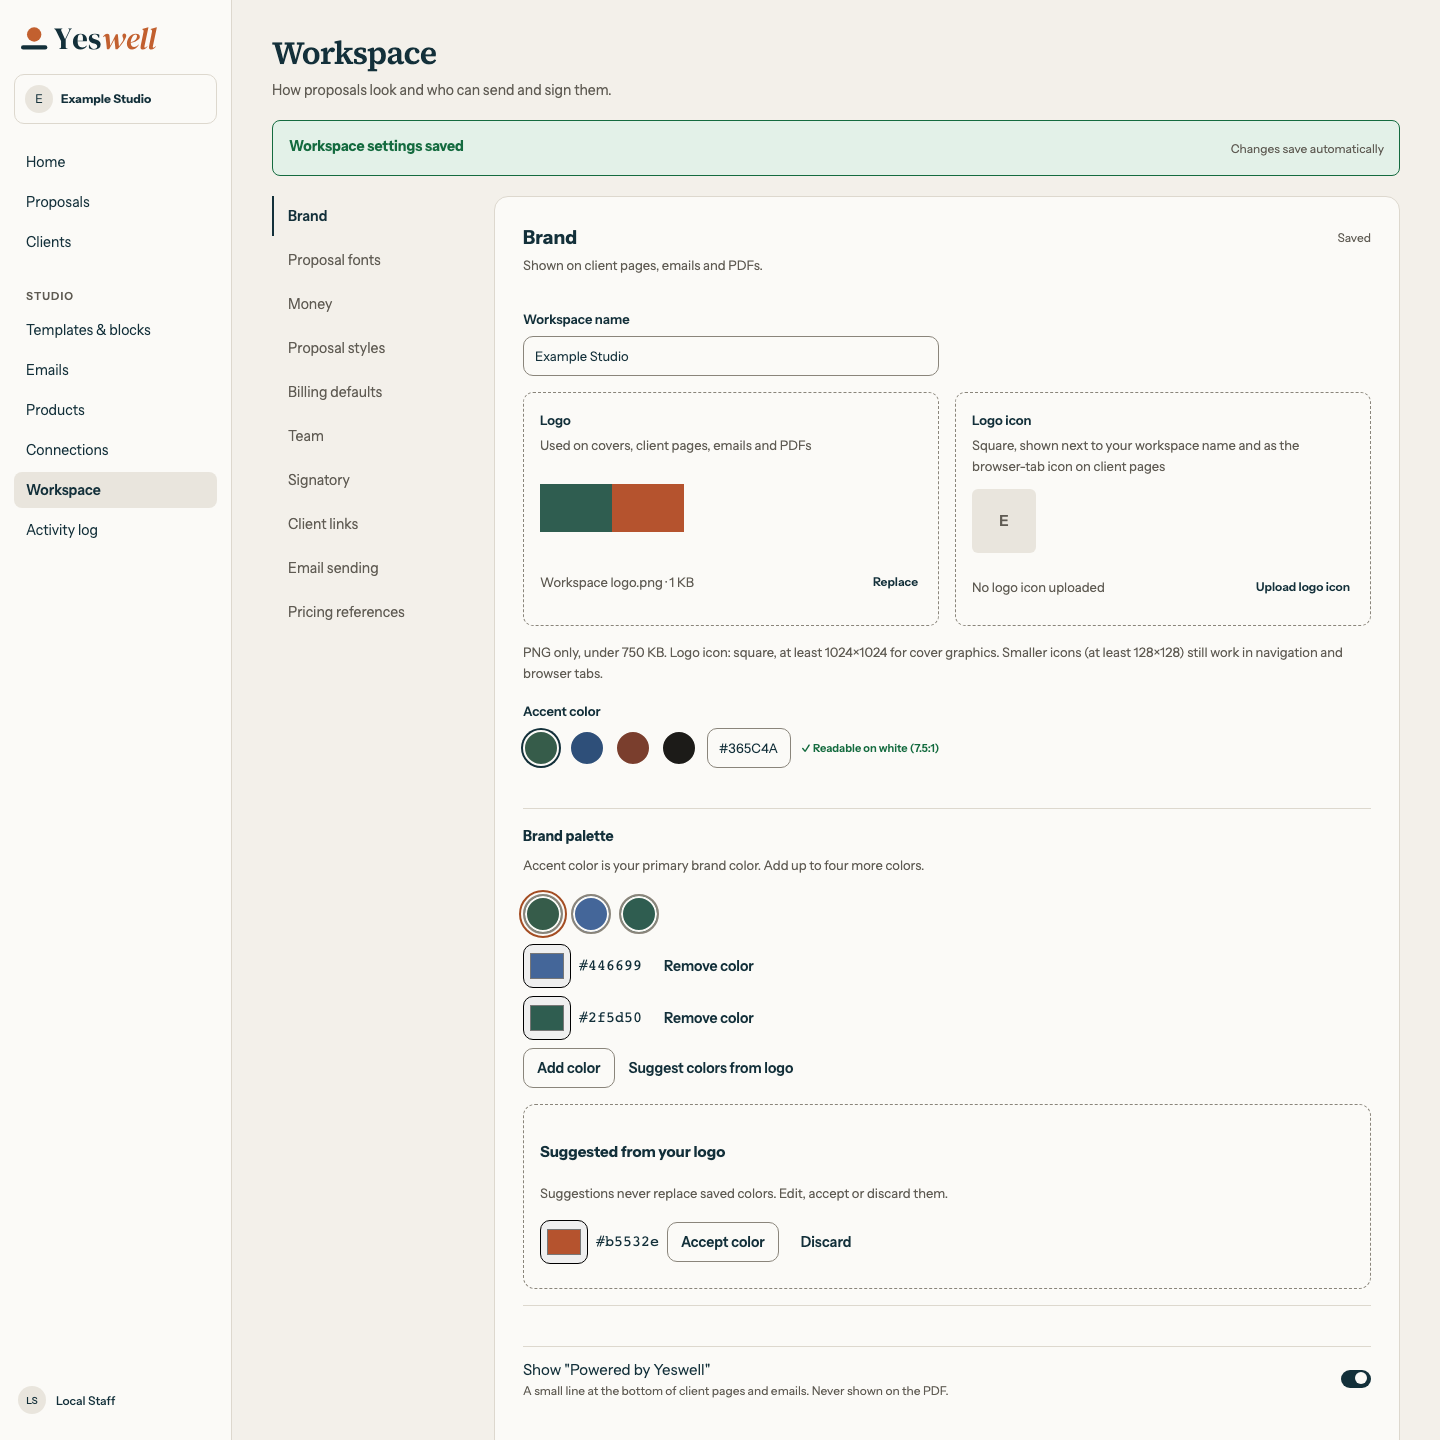
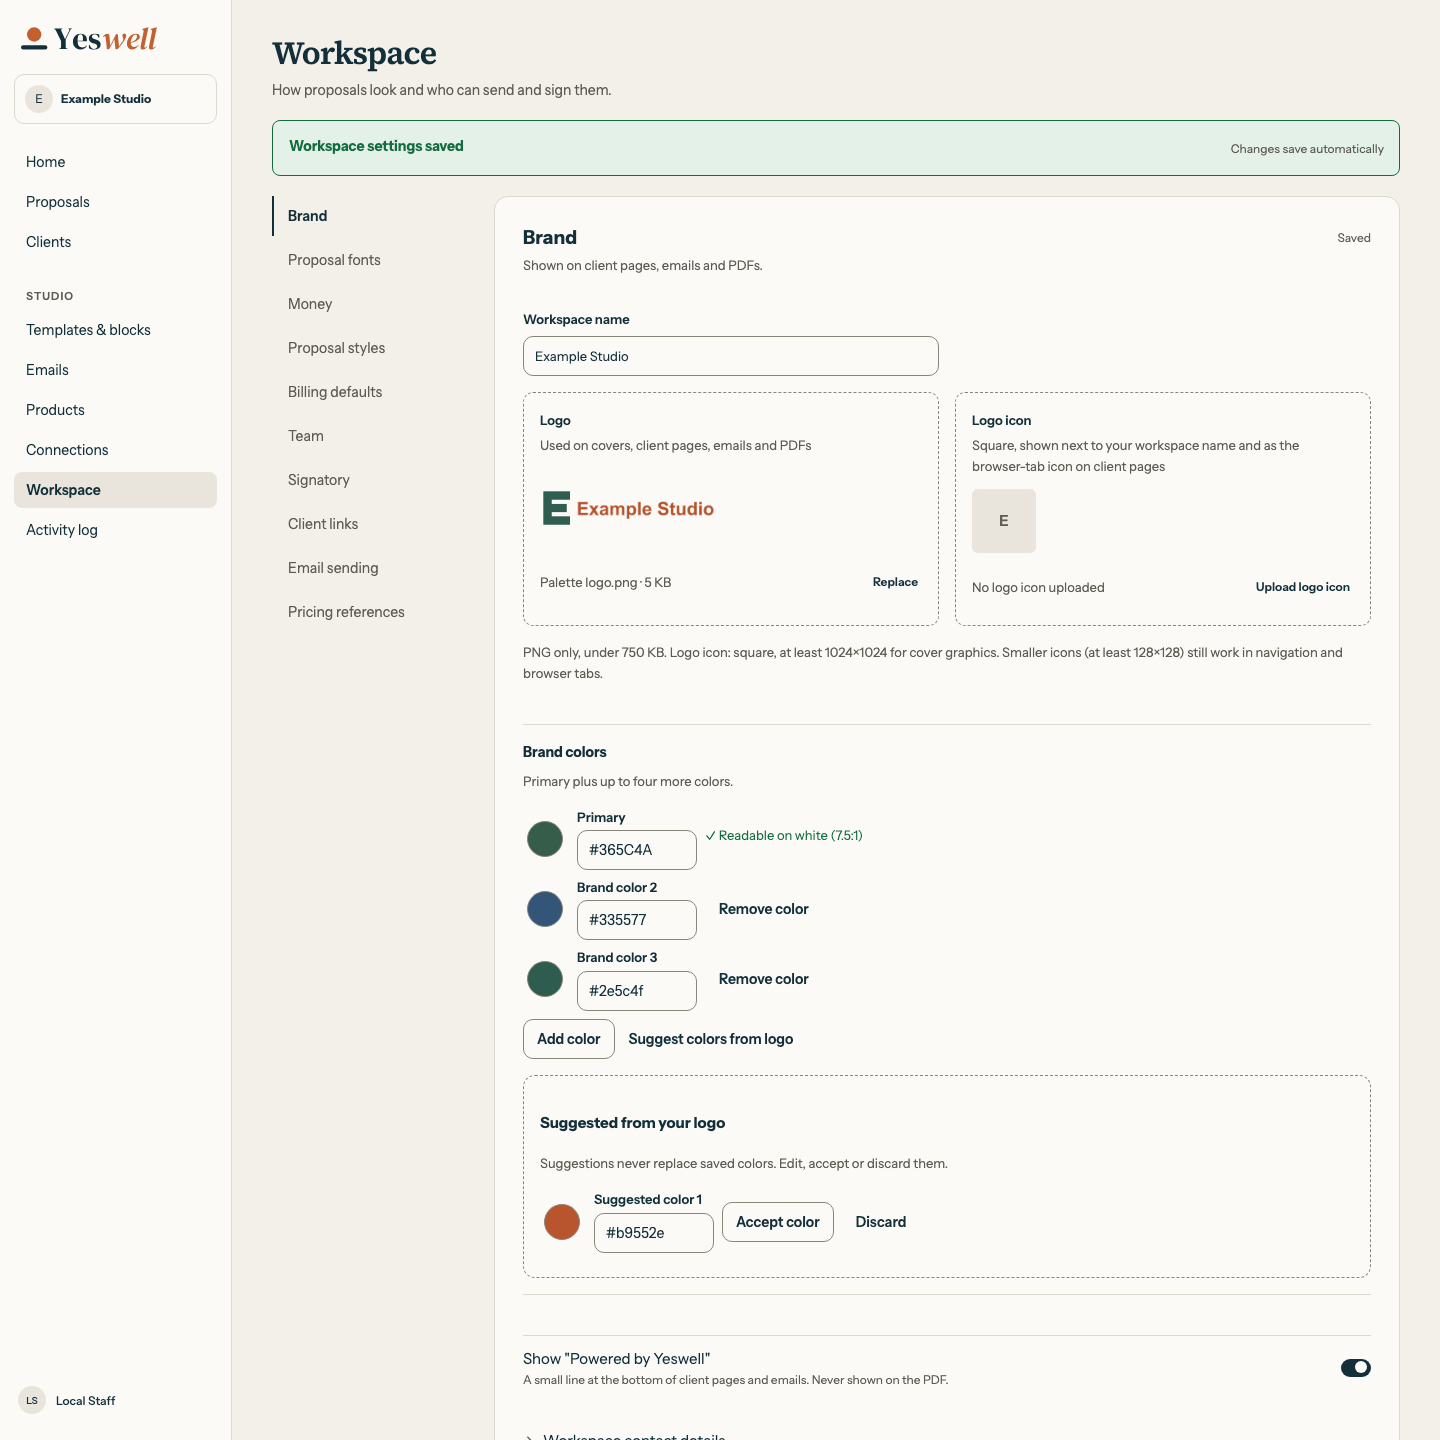
Show default transparent watermark and clarify deploy-before-SQL rollout

diff --git a/HANDOFF_PHASE2.md b/HANDOFF_PHASE2.md
@@ -1214,3 +1214,5 @@ PR #85 CI follow-up restores the legacy cover when an existing template has no s
 Covers PR B builds on that fix. New layout/background/graphic JSON uses one shared rendering source for editor, public sheets and PDF; no legacy cover or existing proposal is migrated. Cover controls are in Styles. Workspace Brand palette suggestions require explicit acceptance. The owner-run future-workspace SQL and guarded unchanged-starter opt-in are documented in `docs/covers-rollout.md`; neither has been run against hosted data. New-layout meta labels/date-only validity follow the owner's answer; old custom cover sentences remain unchanged.
 
 PR B validation: 499 unit/PDF tests and the full browser suite (266 passed, 4 skipped). A final cover/legacy compatibility run passed 25 tests with 1 skipped after refining only new-layout spacing limits and Split graphic cropping. Types, formatting, neutrality and production/PDF packaging checks pass. New-layout spacing accounts for unused flex space; old custom-cover limits retain their existing path. The requested five implementation/artboard pairs, settings, palette and actual PDF cover are in `docs/screenshots/cover-layouts/`.
+
+PR #86 review adds exact crop/default checks, transparent-icon editor/PDF checks, context-sensitive background color, and one shared swatch/hex control for Primary/additional/suggested brand colors. Logo upload previews use the already validated uploaded image while autosave settles, avoiding a missing thumbnail when the logo route still reads the previous settings. The Cover settings and Brand screenshots were recaptured with a real transparent mark/logo. Rollout order is explicitly deploy → hosted SQL → optional protected starter update.

diff --git a/DECISIONS.md b/DECISIONS.md
@@ -654,3 +654,5 @@ Workspace Brand adds an optional palette (primary accent plus four colors). Logo
 Uploaded full-page photos/designs keep a stable contrast backing behind visible text; the Photo layout uses its brand-color band until finished-design mode is selected. The contrast helper describes that resolved surface, including white text over image backings, rather than reporting the palette color alone. These rules are shared by staff, client and PDF renderers.
 
 New-layout spacing controls treat the main group's flexible blank space as available for cover-line spacing; they do not count a full-height flex group as text. Existing custom covers keep their original spacing-limit path. Split's graphic bleeds off the panel's right/bottom edge, clipped to the panel; the no-image brand-name fallback has no icon-gap indentation.
+
+PR #86 owner review: watermarks keep their transparent source shape, clipped only by the page/panel. Editorial defaults to 480px, top/right −150px and 8% on white; Split defaults to 420px, bleeding right/bottom at 12%. Filled-color backgrounds also default to 12%; explicit opacity/size edits remain intact. Review screenshots use a transparent E mark and default values, rather than the previous solid-square stress fixture at 25%/600px. Background color is shown only for color-bearing backgrounds/layouts (Panel color in Split). Workspace Brand has one Brand colors group: Primary (the existing accent with its contrast check), then up to four extra colors, all using a swatch and editable UI-font hex input. Suggestions stay pending until accepted. Run PR B's future-workspace seed SQL **after deploying the matching app**, then optionally run the guarded starter update.

diff --git a/docs/covers-rollout.md b/docs/covers-rollout.md
@@ -21,7 +21,7 @@ Codex has not run hosted SQL or either script against hosted data.
 
 ## PR B — owner action
 
-After PR A's SQL, run [`20261106203920_cover_layout_defaults.sql`](../supabase/migrations/20261106203920_cover_layout_defaults.sql). **Hosted SQL is required for the future-workspace seed payload only.** Cover and palette settings are optional JSON, with no new columns or storage policy. The SQL does not rewrite existing rows.
+**Deploy PR B first**, then, after PR A's SQL has been applied, run [`20261106203920_cover_layout_defaults.sql`](../supabase/migrations/20261106203920_cover_layout_defaults.sql). **Hosted SQL is required for the future-workspace seed payload only.** Cover and palette settings are optional JSON, with no new columns or storage policy. The SQL does not rewrite existing rows. Do not create new workspaces between applying the new payload and deploying its matching app; the required order is app deploy → SQL → optional starter dry run/confirmation.
 
 After deploying the matching app, use the same dry-run and `--confirm` commands above to opt unchanged MarketFresh starters into Editorial. The script now recognizes either the complete unchanged PR #83 seed or PR A seed; it never derives a baseline from the new layout. Any edit to content, quote, name, availability, bands or cover protects the whole starter. The existing service-only atomic comparison protects against edits between the dry run and confirmation. Existing custom covers and every existing proposal/published version remain unchanged.
 
